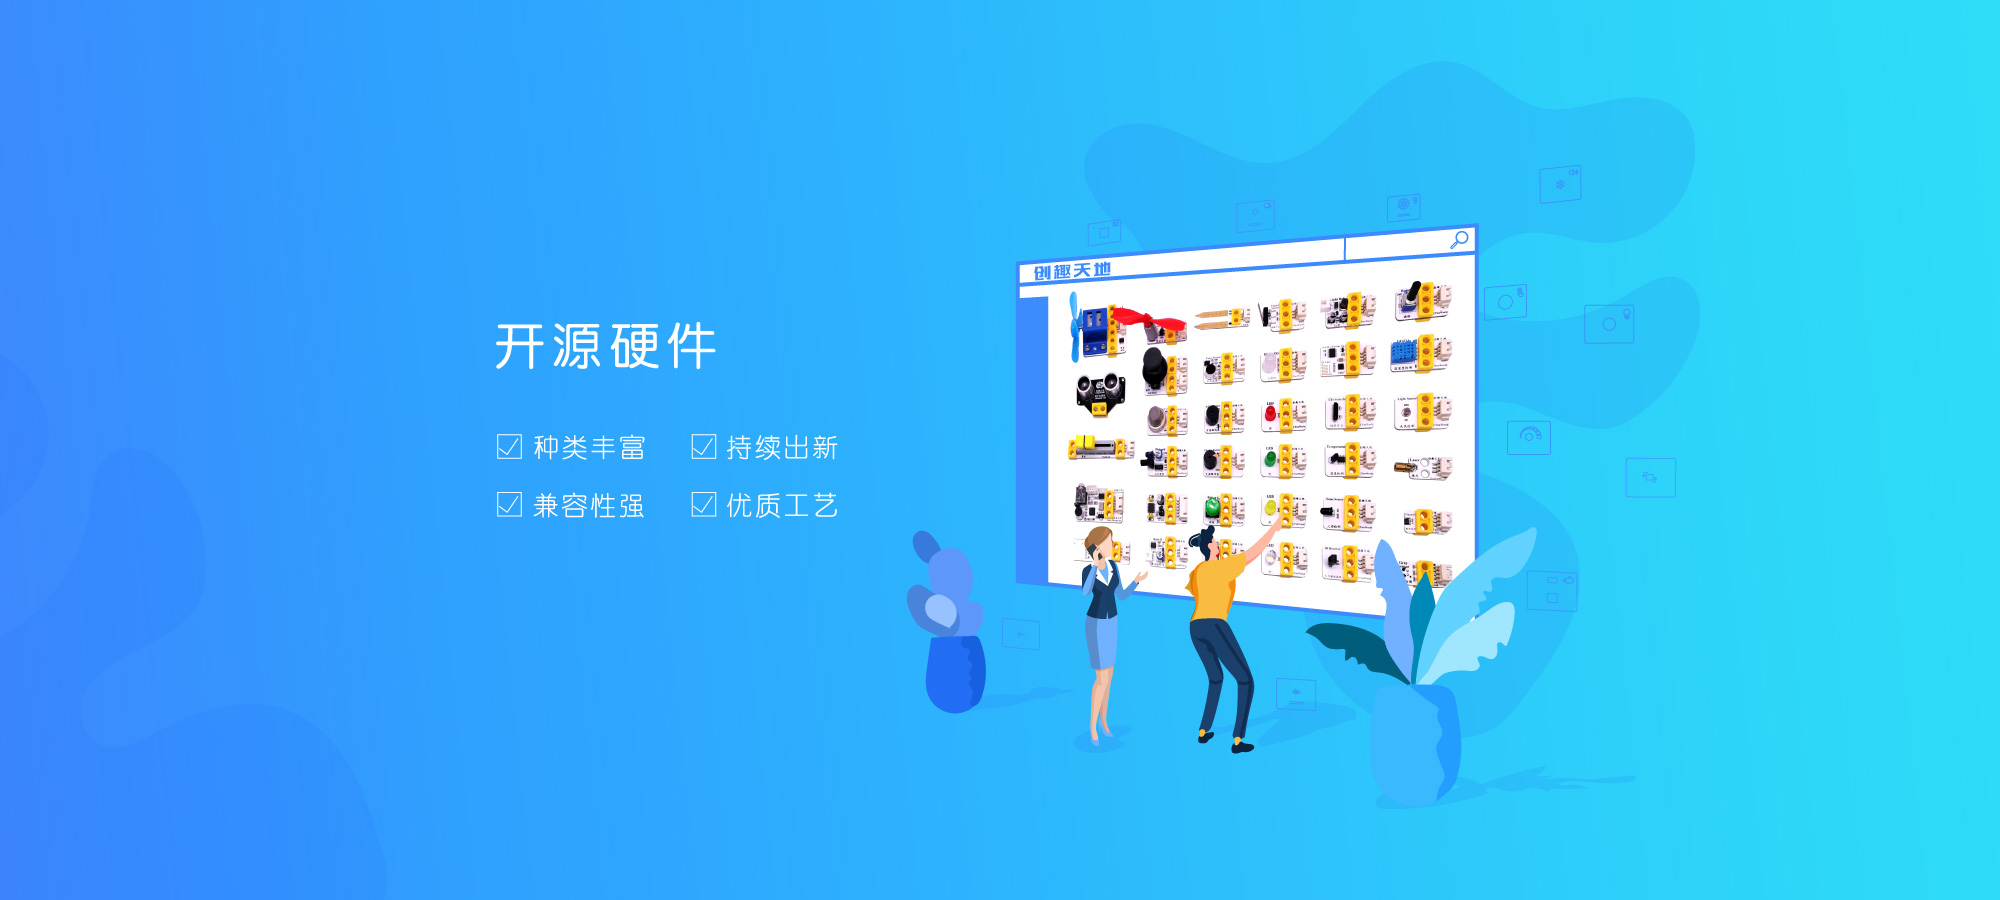
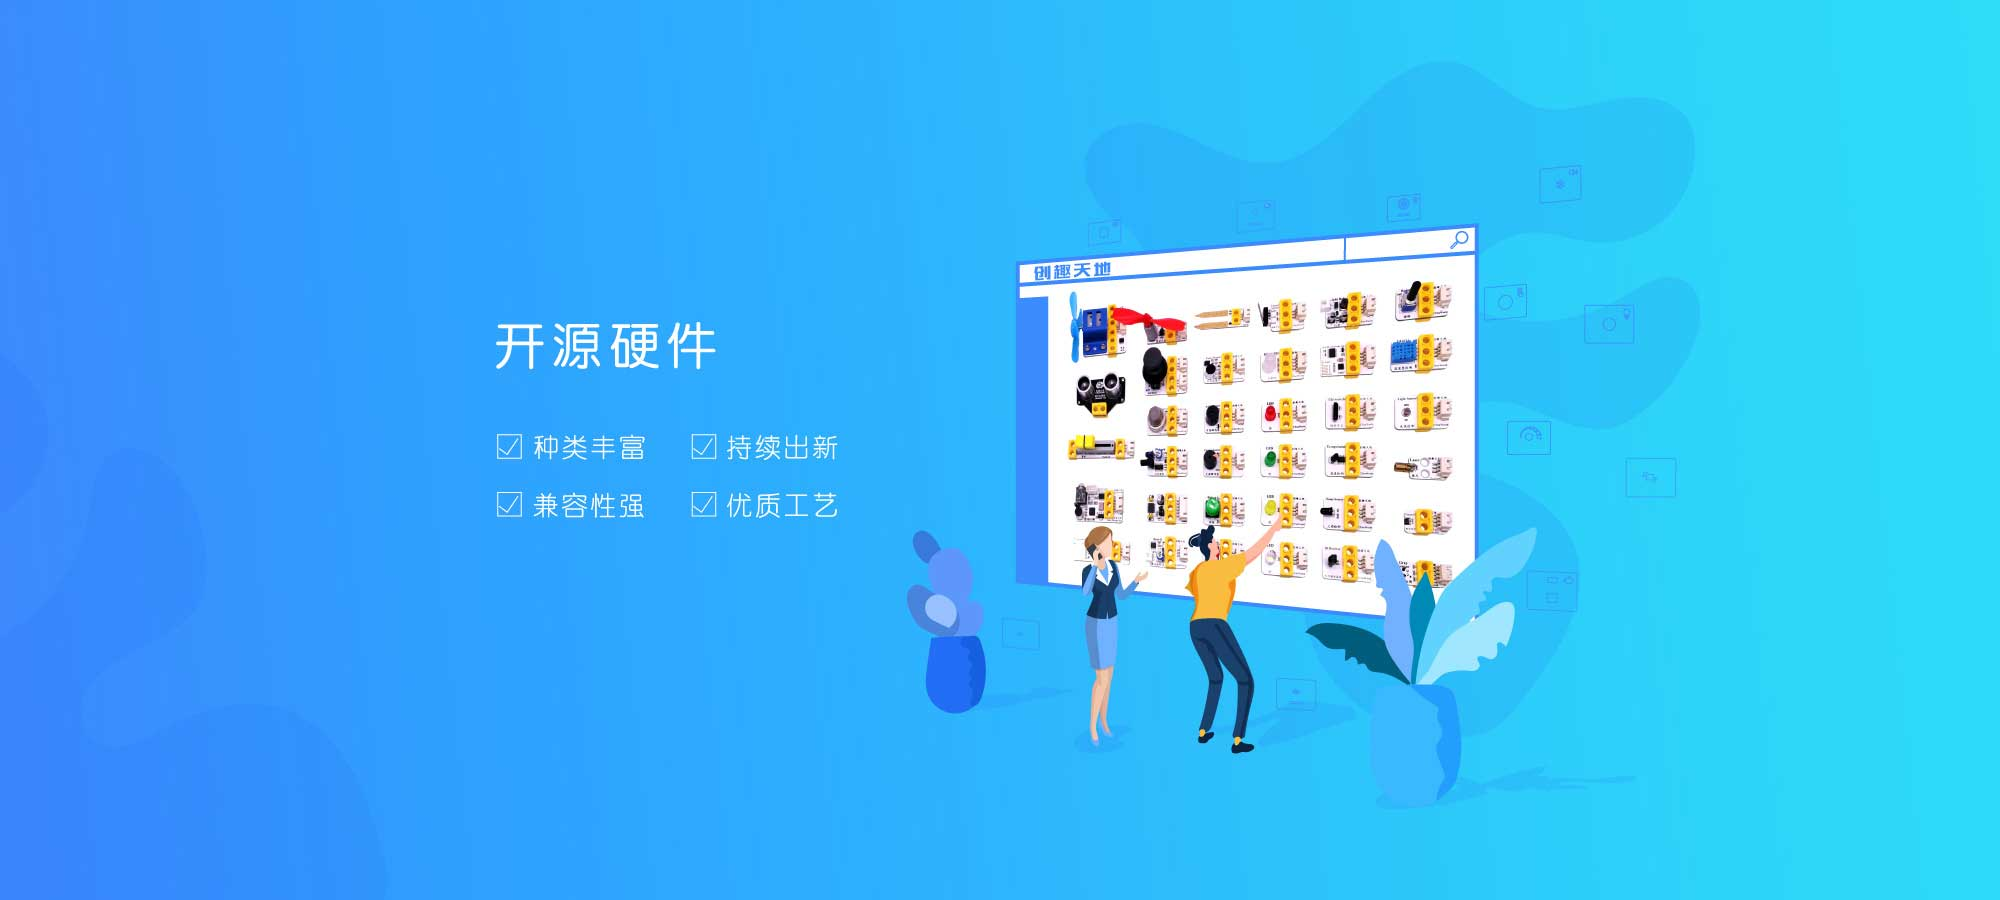
202204261613

diff --git a/client/src/router/routes.js b/client/src/router/routes.js
@@ -1,12 +1,12 @@
-const Home = ()=>import("views/home/Home")
-const Product = ()=>import("views/product/Product")
-const Course = ()=>import("views/course/Course")
-const Activity = ()=>import("views/activity/Activity")
-const Solution = ()=>import("views/solution/Solution")
-const Documents = ()=>import("views/documents/Documents")
-const Question = ()=>import("views/support/Question")
-const Contact = ()=>import("views/support/Contact")
-const Measures = ()=>import("views/support/Measures")
+const Home = res => require(["views/home/Home"],res)
+const Product = res => require(["views/product/Product"],res)
+const Course = res => require(["views/course/Course"],res)
+const Activity = res => require(["views/activity/Activity"],res)
+const Solution = res => require(["views/solution/Solution"],res)
+const Documents = res => require(["views/documents/Documents"],res)
+const Question = res => require(["views/support/Question"],res)
+const Contact = res => require(["views/support/Contact"],res)
+const Measures = res => require(["views/support/Measures"],res)
 
 const routes = [
   {

diff --git a/client/vue.config.js b/client/vue.config.js
@@ -3,6 +3,7 @@ const BundleAnalyzerPlugin = require('webpack-bundle-analyzer').BundleAnalyzerPl
 const CompressionPlugin = require("compression-webpack-plugin")
 
 module.exports = {
+  productionSourceMap:false,
   configureWebpack: {
     plugins: [
       new BundleAnalyzerPlugin(),
@@ -10,7 +11,7 @@ module.exports = {
         test: /\.(js|css)(\?.*)?$/i,//需要压缩的文件正则
         threshold: 10240,//文件大小大于这个值时启用压缩
         deleteOriginalAssets: false//压缩后保留原文件
-      })
+      }),
     ],
     resolve: {
       alias: {

diff --git a/client/public/index.html b/client/public/index.html
@@ -4,7 +4,7 @@
     <meta charset="utf-8">
     <meta http-equiv="X-UA-Compatible" content="IE=edge">
     <meta name="viewport" content="width=device-width,initial-scale=1.0">
-    <link rel="icon" href="<%= BASE_URL %>favicon.ico">
+    <link rel="icon" href="<%= BASE_URL %>cloud.ico">
     <title>创趣天地 - 少儿编程教育</title>
   </head>
   <body>

diff --git a/client/src/views/home/H_Software.vue b/client/src/views/home/H_Software.vue
@@ -45,7 +45,7 @@
   float: left;
   width: 60%;
   height: 100%;
-  background: url("~img/home/softwareC.png") center/contain no-repeat;
+  background: url("~img/home/softwareC.gif") center/contain no-repeat;
 }
 #resume {
   float: right;

diff --git a/README.md b/README.md
@@ -45,3 +45,6 @@ question 数据库结构
 去除了vue import, 本来就是external的 忘记删了，导致打包还是会打；
 安装了插件compression-webpack-plugin，用于输出gzip格式，服务器端nginx配置也需要微调
 (另安装了打包分析插件webpack-bundle-analyzer)
+## [202204261613]
+productionSourceMap:false
+压缩了首页几张图片
